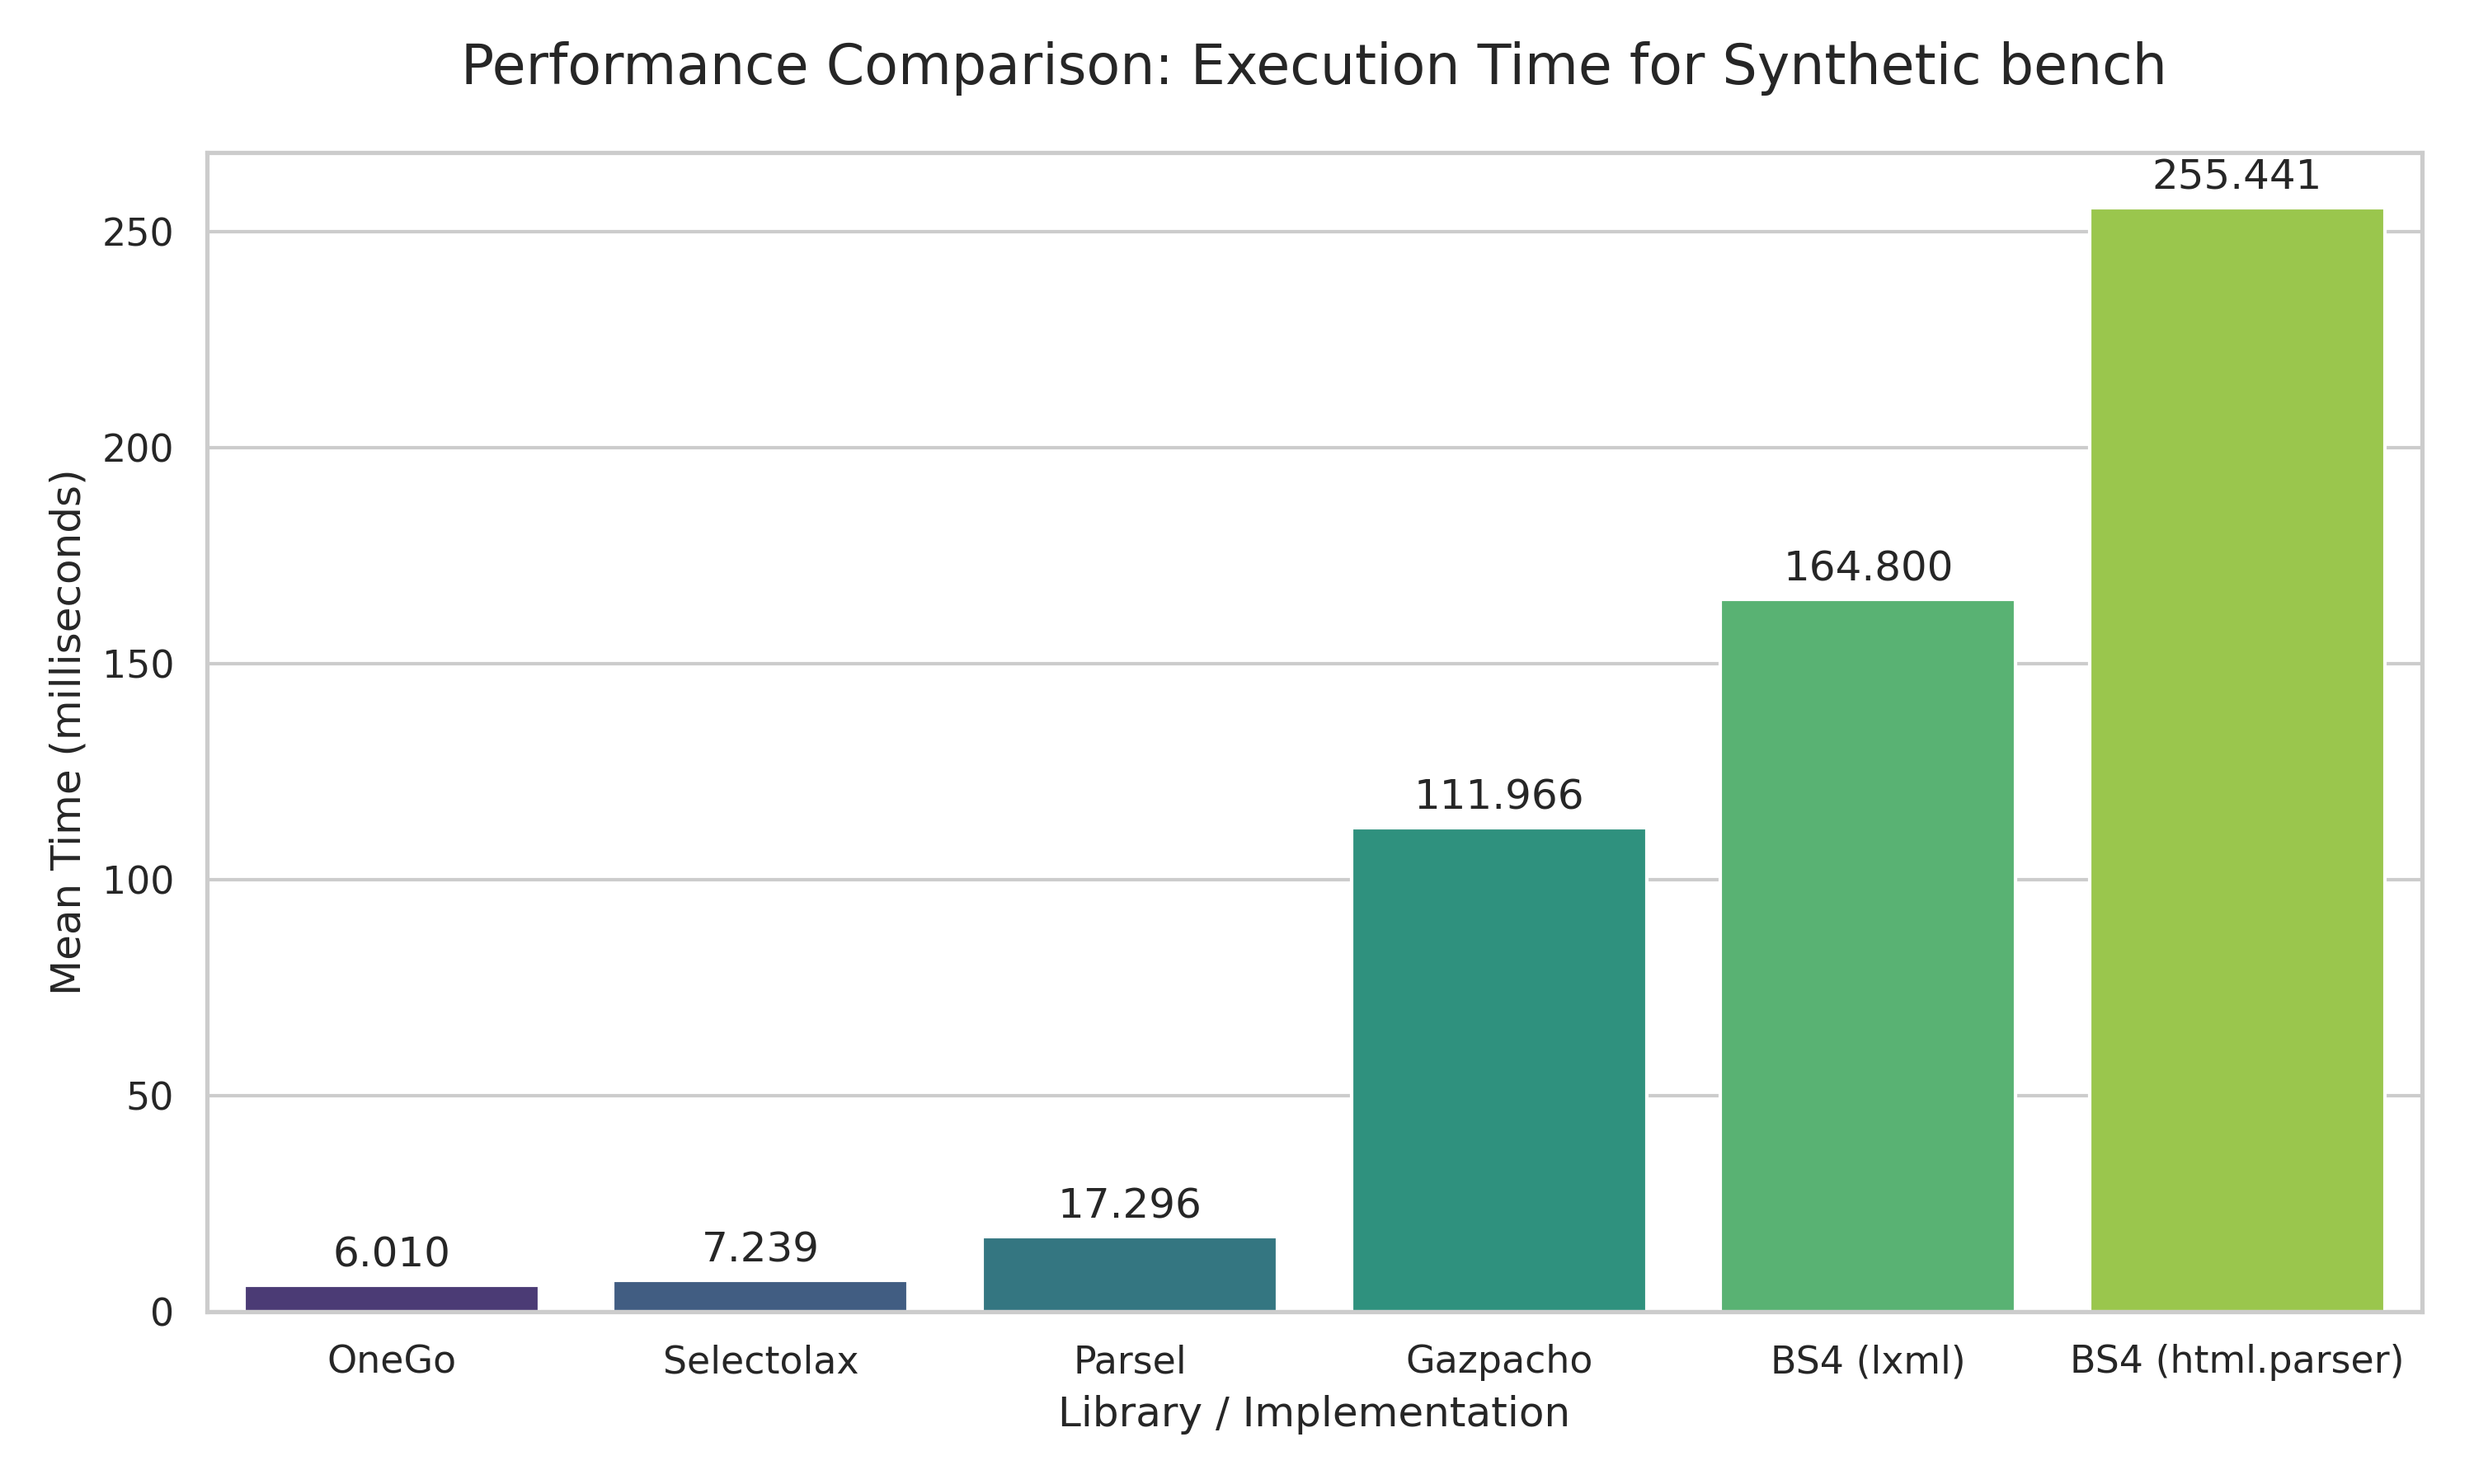
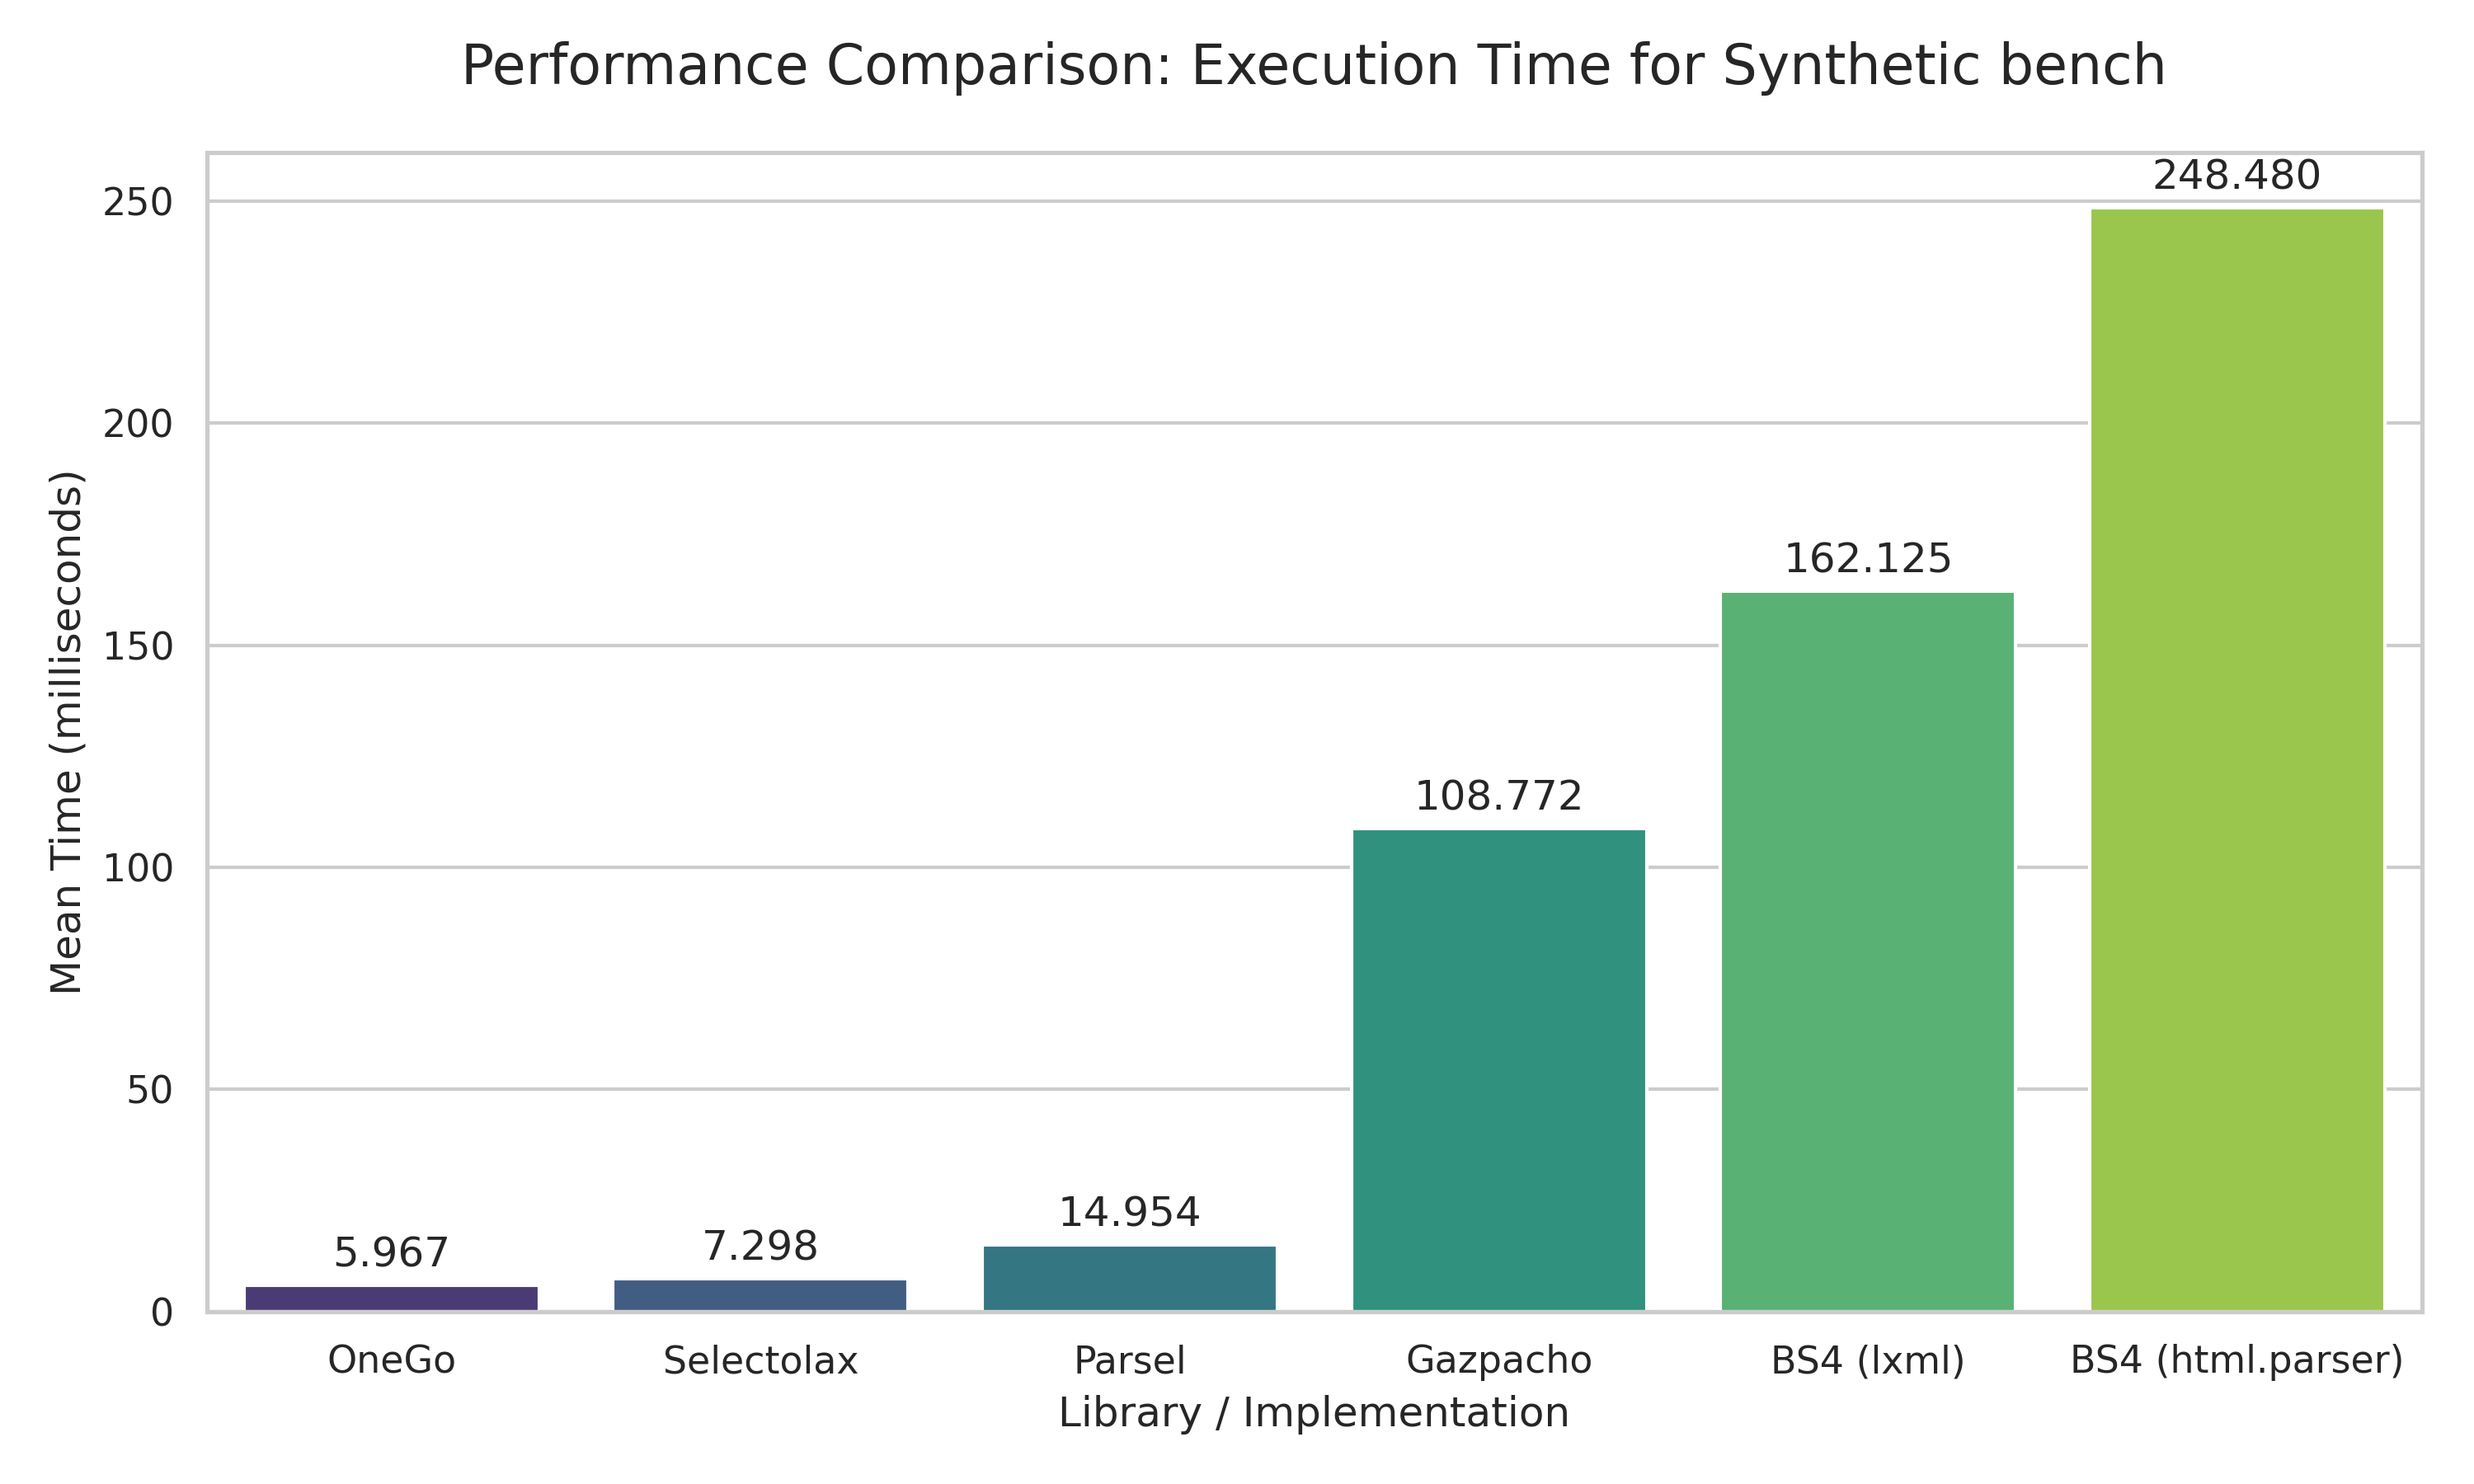
Criterion Benchmark Visualization

diff --git a/python/benches/utils/criterion_figure.py b/python/benches/utils/criterion_figure.py
@@ -1,0 +1,118 @@
+import json
+import pandas as pd
+import seaborn as sns
+import matplotlib.pyplot as plt
+import argparse
+import os
+
+def parse_criterion_json(filename):
+    results = []
+    with open(filename, 'r') as f:
+        for line in f:
+            try:
+                data = json.loads(line)
+                if data.get('reason') == 'benchmark-complete':
+                    parts = data['id'].split('/')
+                    group_name = parts[0]
+                    library = parts[1]
+                    size = int(parts[2])
+
+                    mean_ns = data['mean']['estimate']
+                    
+                    results.append({
+                        "Group": group_name,
+                        "Library": library,
+                        "Size": size,
+                        "Mean (ms)": mean_ns / 1_000_000,
+                        "StdDev (ms)": (data['mean']['upper_bound'] - data['mean']['lower_bound']) / 2_000_000
+                    })
+            except (json.JSONDecodeError, KeyError, IndexError):
+                continue
+    return pd.DataFrame(results)
+
+def generate_markdown_table(df):
+    md_content = "# Performance Benchmark Report\n\n"
+    
+    groups = df['Group'].unique()
+    
+    for group_name in groups:
+        md_content += f"## {group_name.replace('_', ' ').title()}\n\n"
+        group_df = df[df['Group'] == group_name]
+        
+        sizes = sorted(group_df['Size'].unique())
+        
+        for size in sizes:
+            size_df = group_df[group_df['Size'] == size].sort_values("Mean (ms)")
+            
+            md_content += f"### Input Size: {size} Elements\n\n"
+            md_content += ("| Library | Min (ms) | StdDev (ms) |\n"
+                           "| :--- | :--- | :--- |\n")
+            
+            for _, row in size_df.iterrows():
+                md_content += (f"| {row['Library']} "
+                               f"| **{row['Mean (ms)']:,.6f}** "
+                               f"| {row['StdDev (ms)']:,.6f} |\n")
+            md_content += "\n"
+            
+        md_content += "---\n\n"
+        
+    return md_content
+
+def create_plots(df, output_image):
+    sns.set_theme(style="whitegrid")
+    groups = df['Group'].unique()
+
+    fig, axes = plt.subplots(len(groups), 1, figsize=(12, 7 * len(groups)))
+    if len(groups) == 1: axes = [axes]
+
+    for ax, group_name in zip(axes, groups):
+        group_df = df[df['Group'] == group_name]
+
+        group_df.sort_values(by='Mean (ms)', inplace=True)
+
+        sns.barplot(
+            data=group_df,
+            x="Size",
+            y="Mean (ms)",
+            hue="Library",
+            ax=ax,
+            palette="viridis"
+        )
+        for container in ax.containers:
+            ax.bar_label(container, fmt='%.3f', padding=3)
+
+        ax.set_title(f"Comparison: {group_name.replace('_', ' ').capitalize()}", fontsize=16, pad=15)
+        ax.set_ylabel("Mean Execution Time (ms)")
+        ax.set_xlabel("Input Size")
+        ax.legend(title="Library", bbox_to_anchor=(1.05, 1), loc='upper left')
+
+    plt.tight_layout()
+    plt.savefig(output_image, dpi=300)
+    print(f"Graph saved as {output_image}")
+
+if __name__ == "__main__":
+    parser = argparse.ArgumentParser()
+    parser.add_argument('filename', type=str,)
+    parser.add_argument('-o', '--output', type=str, default="criterion_benches.png")
+    parser.add_argument('-m', '--markdown', type=str, default="criterion_report.md")
+
+    args = parser.parse_args()
+
+    benchmark_df = parse_criterion_json(args.filename)
+
+    if not benchmark_df.empty:
+        create_plots(benchmark_df, args.output)
+
+        md_table = generate_markdown_table(benchmark_df)
+        with open(args.markdown, 'w') as f:
+            f.write(md_table)
+
+        print(f"Markdown table saved as {args.markdown}")
+        print("\nTable:\n")
+        print(md_table)
+    else:
+        print("Error: No valid Criterion data found. Ensure the JSON contains 'benchmark-complete' entries.")
+
+# cargo criterion --message-format=json >> criterion.json
+# python3 ./python/benches/utils/criterion_figure.py ./criterion.json
+# rm criterion.json

diff --git a/benches/README.md b/benches/README.md
@@ -1,0 +1,71 @@
+# Performance Benchmark Report
+![Benchmark Image](./images/criterion_benches.png)
+
+## Simple All Selection Comparison
+
+### Input Size: 100 Elements
+
+| Library | Min (ms) | StdDev (ms) |
+| :--- | :--- | :--- |
+| onego | **0.049088** | 0.000399 |
+| lol_html | **0.062062** | 0.000441 |
+| tl | **0.063642** | 0.000518 |
+| lexbor | **0.149248** | 0.006001 |
+| scraper | **0.353872** | 0.002315 |
+
+### Input Size: 1000 Elements
+
+| Library | Min (ms) | StdDev (ms) |
+| :--- | :--- | :--- |
+| onego | **0.457360** | 0.004153 |
+| tl | **0.562708** | 0.003755 |
+| lol_html | **0.606717** | 0.003384 |
+| lexbor | **1.191571** | 0.007378 |
+| scraper | **3.504726** | 0.012261 |
+
+### Input Size: 10000 Elements
+
+| Library | Min (ms) | StdDev (ms) |
+| :--- | :--- | :--- |
+| onego | **4.502841** | 0.034677 |
+| tl | **6.013767** | 0.025309 |
+| lol_html | **6.139372** | 0.020678 |
+| lexbor | **13.131345** | 0.044728 |
+| scraper | **36.474671** | 0.087426 |
+
+---
+
+## Simple First Selection Comparison
+
+### Input Size: 100 Elements
+
+| Library | Min (ms) | StdDev (ms) |
+| :--- | :--- | :--- |
+| onego | **0.000776** | 0.000008 |
+| lol_html | **0.001344** | 0.000013 |
+| tl | **0.027132** | 0.000080 |
+| lexbor | **0.109545** | 0.000762 |
+| scraper | **0.314743** | 0.001010 |
+
+### Input Size: 1000 Elements
+
+| Library | Min (ms) | StdDev (ms) |
+| :--- | :--- | :--- |
+| onego | **0.000754** | 0.000005 |
+| lol_html | **0.001470** | 0.000031 |
+| tl | **0.280862** | 0.001290 |
+| lexbor | **0.921844** | 0.007854 |
+| scraper | **3.357639** | 0.043364 |
+
+### Input Size: 10000 Elements
+
+| Library | Min (ms) | StdDev (ms) |
+| :--- | :--- | :--- |
+| onego | **0.000831** | 0.000033 |
+| lol_html | **0.001421** | 0.000009 |
+| tl | **3.039043** | 0.059616 |
+| lexbor | **10.141690** | 0.220713 |
+| scraper | **32.612211** | 0.143793 |
+
+---
+

diff --git a/README.md b/README.md
@@ -1,6 +1,12 @@
 # 1Go
+World's fastest CSS Selector.
 
-## Python Bindings for 1Go Benchmark's
+## Benchmark's
+
+### Native
+![Criterion BenchMarks](./benches/images/criterion_benches.png)
+
+### Python Bindings for 1Go Benchmark's
 Real Html BenchMark ([html.spec.whatwg.org](https://html.spec.whatwg.org/)) (select all `a` tags):
 ![WhatWg Html Spec BenchMark](./python/benches/images/whatwg.png)
 
